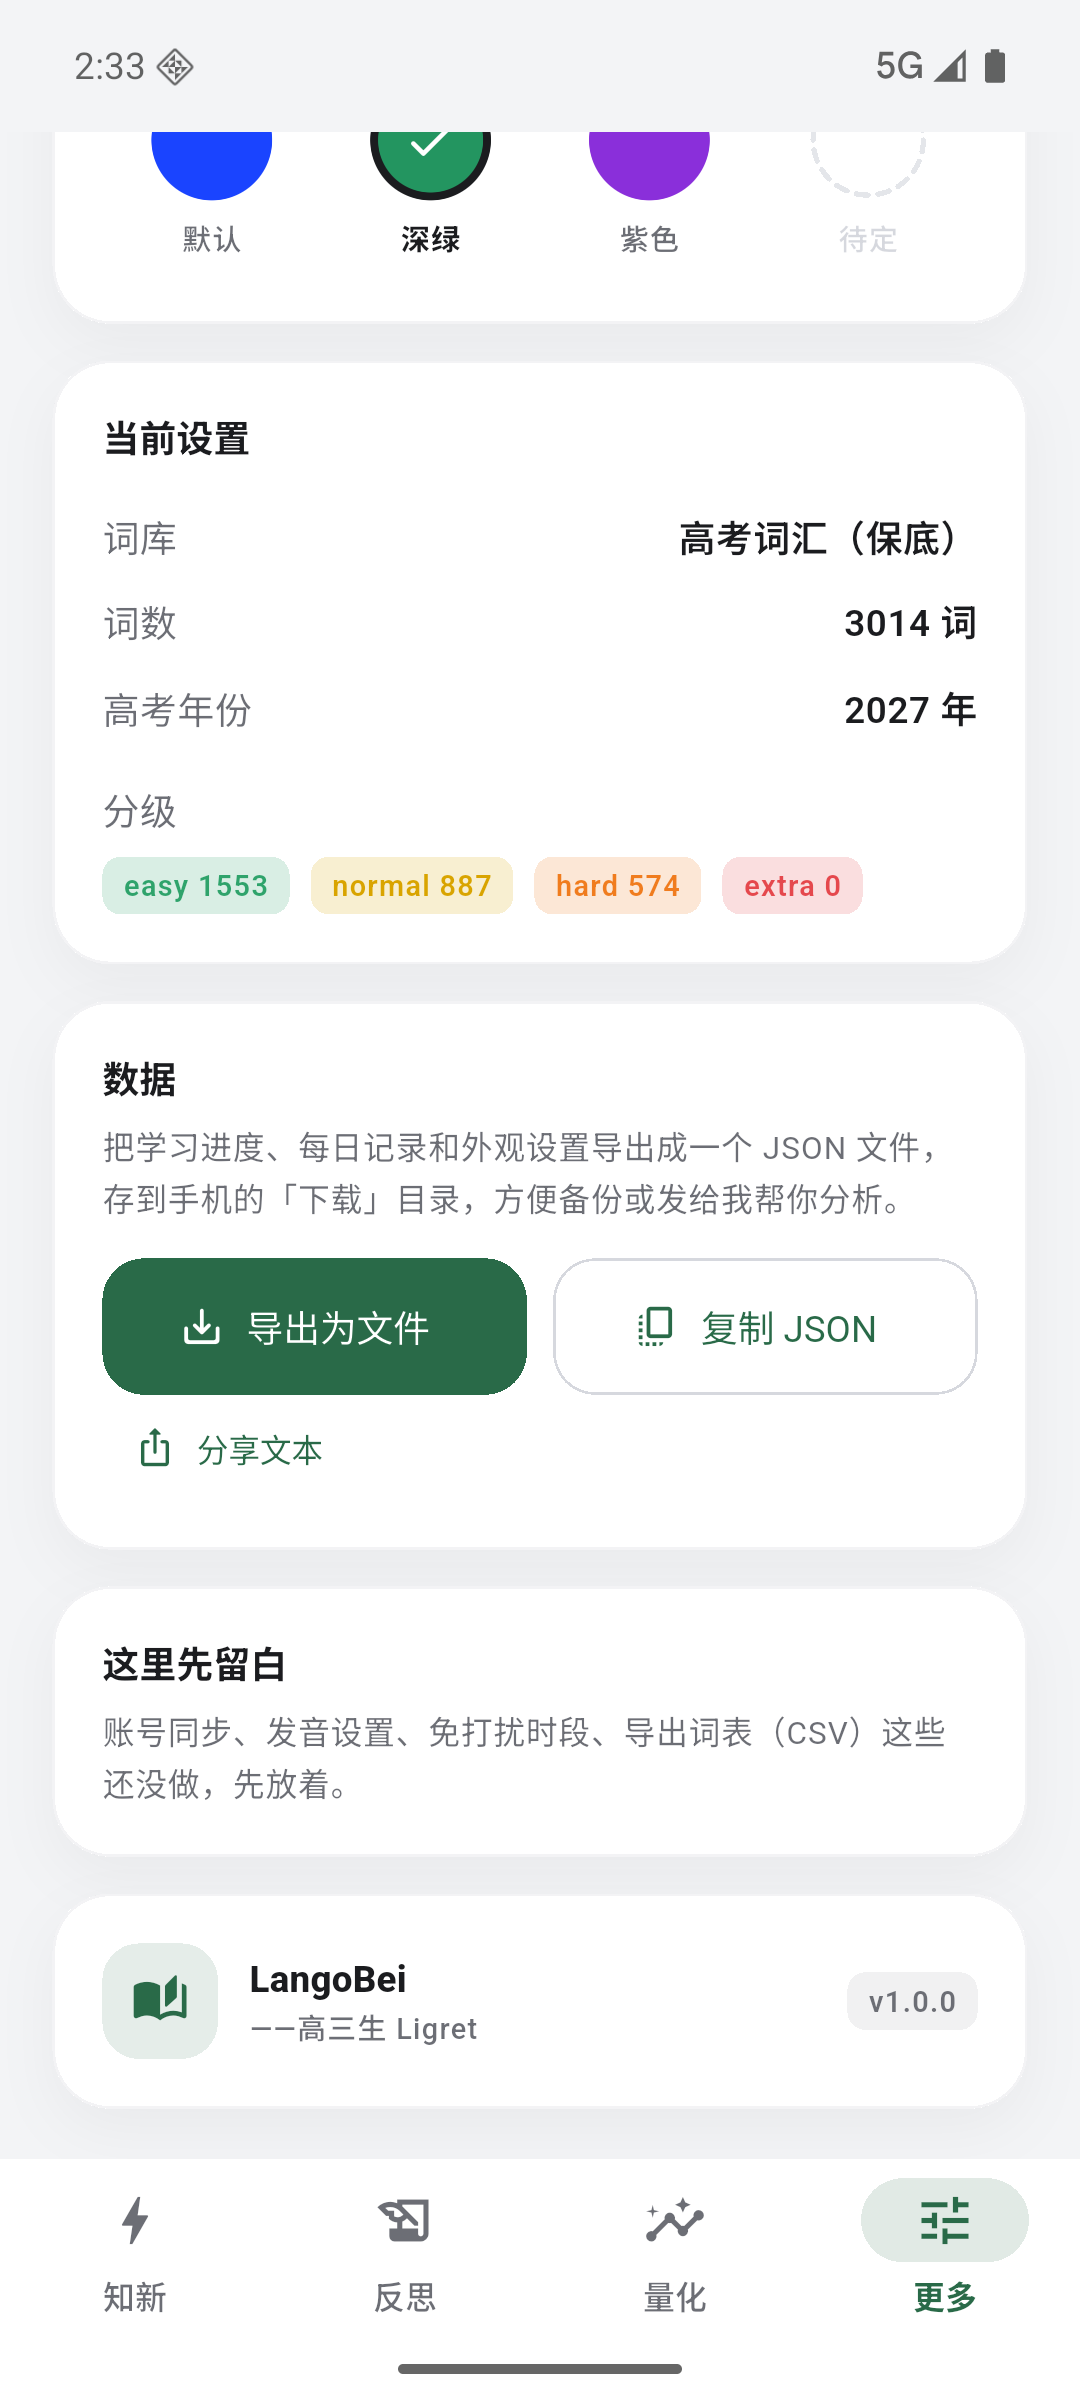
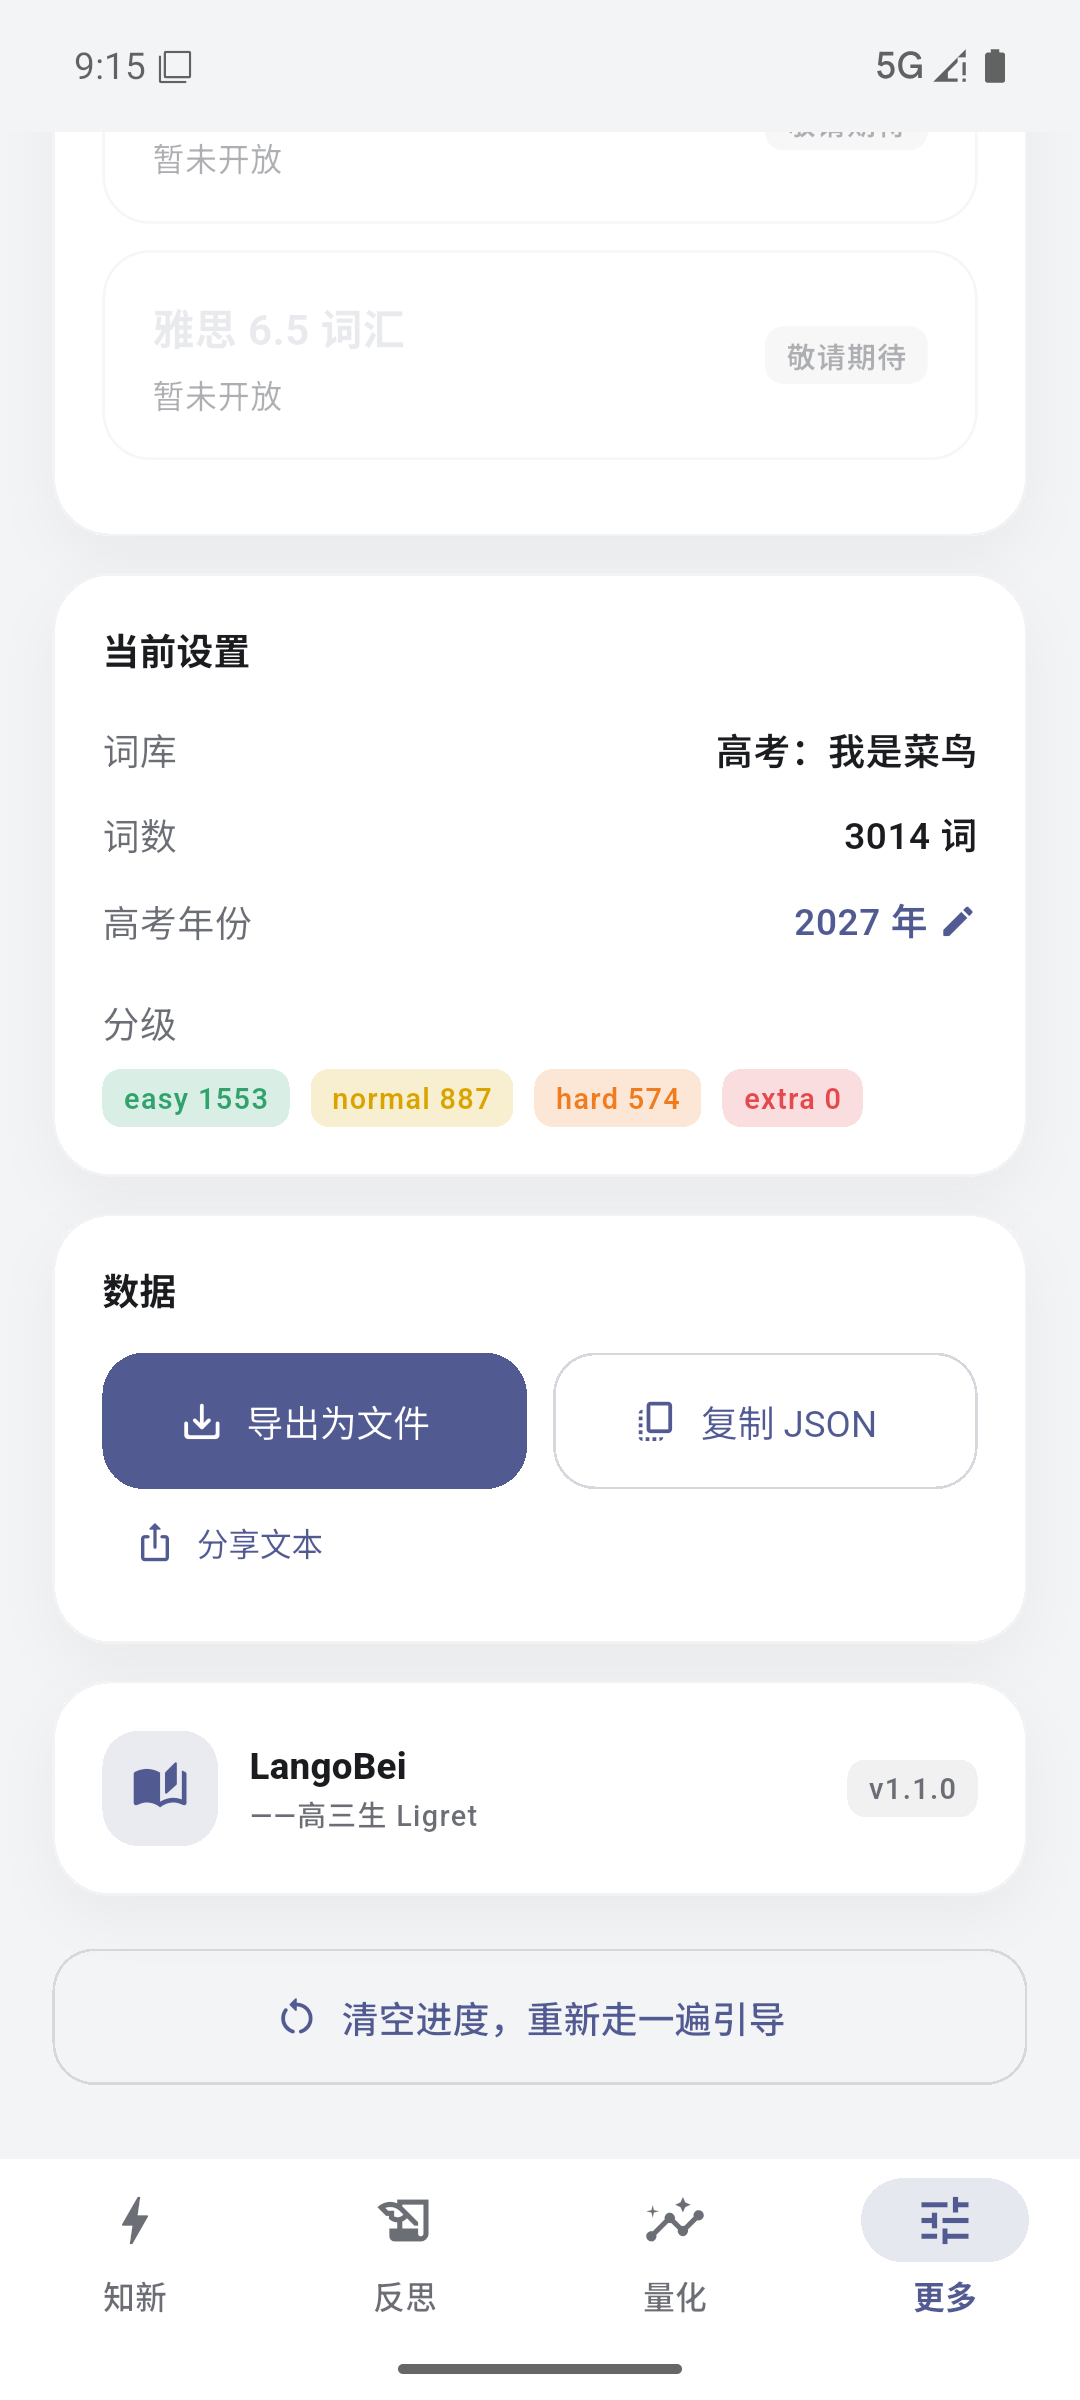
docs: 换上新版截图并精简 README
- 重拍 知新翻面 / 错题插入 / 量化 / 外观 / 数据 / 更多 六张截图，数据取自真实进度
- README 从 155 行压到 94 行：合并重复说明、删掉外观与导出的冗长表格、算法细节只留结论并指向 docs/技术细节.md
- 预览表格换成新截图；下载文件名与测试数同步到 1.1.0 / 75

diff --git a/README.md b/README.md
@@ -1,105 +1,75 @@
 # LangoBei
 
-面向高考英语的背单词 App：3540 词离线词库、三种掌握状态、错题回流、进度量化。用 Flutter 写的，目前只出 Android 包。
+面向高考英语的背单词 App：3540 词离线词库、三种掌握状态、错题回流、进度量化。Flutter 写的，目前只出 Android 包。
 
-- **不用联网**：词库打包在安装包里，飞机上、地铁里都能背
-- **不用登录**：没有账号、没有云同步、没有广告，打开就能开始
-- **数据是你自己的**：学习记录只存在本机，随时可以导出成 JSON 带走
-- 外观可调：深色模式 + 主题色四选一，白底区域始终是纯白
+- **不用联网、不用登录**：词库打包在安装包里，学习记录只存在本机，随时能导出成 JSON 带走
+- **不要权限、没有广告**：打开就能背，卸载重装不会上传任何数据
+- 深色模式 + 主题色四选一，白色区域始终是纯白
 
 MIT 协议开源，自用、二改、商用都可以，保留版权声明即可。
 
 ## 下载安装
 
-到 [Releases](https://github.com/Ligret2007/LanGouBei/releases/latest) 下载 `LangoBei-v1.0.0.apk`，在手机上点开安装即可（首次安装需要在系统里允许「安装未知应用」）。
-
-- 支持 Android 7.0 及以上（`minSdk 24`），安装包约 50 MB
-- 不需要任何权限，也不联网；卸载重装不会上传任何数据
+到 [Releases](https://github.com/Ligret2007/LanGouBei/releases/latest) 下载 `LangoBei-v1.1.0.apk`，在手机上点开安装即可（首次安装需要在系统里允许「安装未知应用」）。支持 Android 7.0 及以上（`minSdk 24`），安装包约 50 MB。
 
 想自己编译，见下面的[怎么跑起来](#怎么跑起来)。
 
 ## 界面预览
 
-| 引导 · 词库 | 引导 · 高考年份 | 知新 · 翻开释义 |
+| 知新 · 翻开释义 | 量化 · 7 日成果 | 更多 · 设置与数据 |
 | :---: | :---: | :---: |
-| <img src="docs/screenshots/02-onboarding-bank.png" width="230"> | <img src="docs/screenshots/03-onboarding-year.png" width="230"> | <img src="docs/screenshots/05-study-reveal.png" width="230"> |
+| <img src="docs/screenshots/05-study-reveal.png" width="230"> | <img src="docs/screenshots/08-quant-7day.png" width="230"> | <img src="docs/screenshots/12-more.png" width="230"> |
 
-| 量化 · 7 日成果 | 更多 · 词库 / 数据 | 外观 · 主题色四选一 |
+| 外观 · 主题色四选一 | 知新 · 错题插入 | 引导 · 选词库 |
 | :---: | :---: | :---: |
-| <img src="docs/screenshots/08-quant-7day.png" width="230"> | <img src="docs/screenshots/12-more.png" width="230"> | <img src="docs/screenshots/09-theme-presets.png" width="230"> |
+| <img src="docs/screenshots/09-theme-presets.png" width="230"> | <img src="docs/screenshots/06-study-wrongbook.png" width="230"> | <img src="docs/screenshots/02-onboarding-bank.png" width="230"> |
 
-其余截图（引导介绍 / 就绪、错题插入、反思空状态、深色模式、改高考年份）都在 [docs/screenshots](docs/screenshots) 里。
+其余截图（引导介绍 / 就绪、高考年份、反思空状态、深色模式）都在 [docs/screenshots](docs/screenshots) 里。
 
 ## 它能做什么
 
-### 四个板块
-
 | 板块 | 做什么 |
 | --- | --- |
-| **知新** | 每天在这儿背词。点卡片翻面看释义，然后选「不认识 / 模糊 / 认识」；选「不认识」的词自动进错题本。顶部显示今日已选次数、错题本数量、已掌握数量 |
-| **反思** | 只复习错题本里的词，选项简化成「认识 / 不认识」——认识就移出，不认识就留着。错题本空了会有空状态提示 |
-| **量化** | 把进度摊开：距高考天数、连续学习天数、今日正确率、已掌握数量与百分比进度条、错题本数量，以及近 7 天的选择次数柱状图 |
-| **更多** | 换词库、改高考年份、切深色模式与主题色、导出学习数据、看版本信息、清空进度重新走引导 |
-
-### 掌握度是怎么判的
-
-每个词只有三种状态：
-
-| 状态 | 条件 |
-| --- | --- |
-| **已掌握** | 最近三次评价全是「认识」 |
-| **错题本** | 在知新里选了「不认识」 |
-| **未掌握** | 其他情况 |
-
-另外两条规则不太显眼，但会实际影响判定：
-
-- **3 秒规则**：卡片停留超过 3 秒，不管你点的是「认识」还是「不认识」，掌握度都按「模糊」记录。界面当时不会提示你，选项次数也照实统计——被悄悄调整的只有掌握度。目的是别让「想了很久才想起来」和「一眼就认识」混为一谈。
-- **错题会回来找你**：每答完 5 个新词，就实时抽一张错题插进来。
-- 每个词还没被评价过时，会多出一个「确定认识」——点了直接进已掌握。
+| **知新** | 每天在这儿背词：点卡片翻面看释义，然后选「不认识 / 模糊 / 认识」；选「不认识」的自动进错题本。顶部显示今日已选次数、错题本数量、已掌握数量 |
+| **反思** | 只复习错题本里的词，选项简化成「认识 / 不认识」——认识就移出，不认识就留着 |
+| **量化** | 把进度摊开：距高考天数、连续学习天数、今日正确率、已掌握进度条，以及近 7 天的选择次数柱状图 |
+| **更多** | 换词库、改高考年份、切深浅色与主题色、导出学习数据、看版本信息、清空进度重走引导 |
 
 ### 出词顺序
 
-「知新」既不按字母表出词，也不是纯随机：
+「知新」不按字母表出词，也不是纯随机：
 
-- **伪随机**：每次进「知新」或点「再来一组」都重新洗一遍，但同一轮里顺序是固定的——不会看着看着下一张跳走，你也猜不到下一张是什么
-- **难度按占比摊平**：四个难度交错出现，比例跟着它们在词库里的占比走（菜鸟库大约 `easy` 52% / `normal` 29% / `hard` 19%），而且**任意一段**都贴着这个比例——不会连着来一串同难度，也不会为了「四种难度都露面」把低频词硬塞进来
-- 每个难度内部：**没见过的词优先**，见过的词按「最久没复习」排在本级后面
+- **伪随机**：每次进「知新」或点「再来一组」都重新洗一遍，同一轮里顺序固定——不会看着看着下一张跳走，你也猜不到下一张是什么
+- **难度按占比摊平**：四个难度交错出现，比例跟着它们在词库里的占比走（菜鸟库约 `easy` 52% / `normal` 29% / `hard` 19%），任意一段都贴着这个比例，不会连着来一串同难度
+- 每个难度内部**没见过的词优先**，见过的词按「最久没复习」排在本级后面
+
+### 掌握度怎么判
+
+每个词只有三种状态：**已掌握**（最近三次评价全是「认识」）、**错题本**（在知新里选了「不认识」）、**未掌握**（其余情况）。
+
+另有两条不太显眼但会实际影响判定的规则：
+
+- **3 秒规则**：卡片停留超过 3 秒，掌握度一律按「模糊」记录——选项次数照实统计，界面当时不提示。目的是别让「想了很久才想起来」和「一眼就认识」混为一谈
+- **错题会回来找你**：每答完 5 个新词，实时抽一张错题插进来；每个词第一次出现时还多一个「确定认识」，点了直接进已掌握
+
+算法细节见 [docs/技术细节.md](docs/技术细节.md)。
 
 ### 词库
-
-内置两个难度，随时可换：
 
 | 词库 | 词数 | 说明 |
 | --- | --- | --- |
 | **高考：我是菜鸟** | 3014 | 覆盖高考高频，基础到进阶 |
 | **高考：我是大神** | 3540 | 在菜鸟的基础上增加低频词 |
 
-- 词库是**本项目自编**的，每个词带音标、词性、释义和难度分级：`easy`（绿）/ `normal`（黄）/ `hard`（橙）/ `extra`（红），单词卡正反面都带这个标签
-- **换库不丢进度**：进度按单词 id 记录，换完「知新」按新词库重新排队
-- 四级词汇、雅思 6.5 留了入口，目前灰着标「敬请期待」
-- 想换成自己的词表：词库就是一个 JSON 文件（`assets/words_gaokao.json`），照着字段格式替换，或用 `tool/build_vocab.py` 从纯文本词表（每行「单词 音标 分级 释义」）生成
+- 词库是**本项目自编**的，每个词带音标、词性、释义和难度分级（`easy` 绿 / `normal` 黄 / `hard` 橙 / `extra` 红），卡片正反面都带这个标签
+- **换库不丢进度**：进度按单词 id 记录，换完「知新」按新词库重新排队；四级、雅思留了入口，目前灰着标「敬请期待」
+- 想换成自己的词表：词库就是一个 JSON 文件（`assets/words_gaokao.json`），照着字段格式替换，或用 `tool/build_vocab.py` 从纯文本词表生成
 
-### 高考年份与倒计时
-
-引导第三页用滚动选择器选高考年份（2027–2040），之后在「更多 → 当前设置」里随时能点开改。选完，App 里到处都会显示距离高考还有多少天。
-
-### 外观
-
-- **深色模式**：跟随系统 / 浅色 / 深色
-- **主题色**：默认蓝 / 深绿 / 紫色，第四格先留空
-- 主题色只染标题、大标题、按钮、进度条、选中态这类醒目位置；卡片与页面底色一律中性色，**白色区域保持纯白**
+高考年份在引导第三页用滚动选择器选（2027–2040），之后在「更多 → 当前设置」里随时能改，App 里到处都会显示距离高考还有多少天。
 
 ### 导出学习数据
 
-「更多 → 数据」有三个入口，互相兜底：
-
-| 按钮 | 做什么 |
-| --- | --- |
-| **导出为文件** | 生成 `langobei-年月日-时分秒.json` 写进系统「下载」目录（Android 10+ 不需要存储权限），提示条上带「复制路径」 |
-| **复制 JSON** | 整份 JSON 进剪贴板（只有学过的词才占地方） |
-| **分享文本** | 走系统分享面板发出去，微信、邮件都行 |
-
-导出内容包括设置、给人看的汇总（已掌握 / 正确率 / 连续天数等）和原始进度数据，字段说明见 [docs/技术细节.md](docs/技术细节.md)。导出不会改动任何学习状态。
+「更多 → 数据」有三个互相兜底的入口：**导出为文件**（生成 `langobei-年月日-时分秒.json` 写进系统「下载」目录，Android 10+ 不需要存储权限）、**复制 JSON**、**分享文本**（走系统分享面板）。导出内容是设置、给人看的汇总和原始进度数据；导出不会改动任何学习状态。
 
 ## 怎么跑起来
 
@@ -112,7 +82,7 @@ flutter pub get
 flutter run                    # 连上手机或模拟器，改代码即时热重载
 flutter build apk --release    # 产物：build/app/outputs/flutter-apk/app-release.apk
 flutter analyze
-flutter test                   # 62 个测试
+flutter test                   # 75 个测试
 ```
 
 ## 代码结构
@@ -131,19 +101,17 @@ lib/
 android/.../MainActivity.kt 原生通道：写「下载」目录、拉起分享面板
 ```
 
-持久化只用 `shared_preferences` 存一份 JSON，连续操作时 600ms 防抖写盘——没有数据库，也没引状态管理框架，`ChangeNotifier` 加一层 `ListenableBuilder` 就够了。
+持久化只用 `shared_preferences` 存一份 JSON（连续操作时 600ms 防抖写盘）——没有数据库，也没引状态管理框架，`ChangeNotifier` 加一层 `ListenableBuilder` 就够了。
 
 ## 数据与隐私
 
-- 词库在安装包里，学习记录在手机本地，**App 不发起任何网络请求**
-- 没有账号体系，所以换手机得自己导出再导入（导入功能还没做，导出 JSON 的结构是照着「将来能直接喂回去」设计的）
+- 词库在安装包里，学习记录在手机本地，**App 不发起任何网络请求**；没有账号体系，所以换手机得自己导出（导入功能还没做，导出 JSON 的结构是照着「将来能直接喂回去」设计的）
 - 清空进度只删学习记录，外观偏好会保留
 
 ## 已知限制
 
-- 目前只有 Android 版（没做过 iOS 适配）
+- 只有 Android 版（没做过 iOS 适配），词库只有单词 / 音标 / 词性 / 释义，没有例句和真人发音
 - release 关闭了 R8 压缩：AGP 9 的默认压缩会裁掉插件反射调用的方法，装上就崩，等插件适配后再打开
-- 词库只有单词 / 音标 / 词性 / 释义，没有例句和真人发音
 - 四级、雅思词库还是占位；导出有了，导入还没做
 
 ## 开源协议
